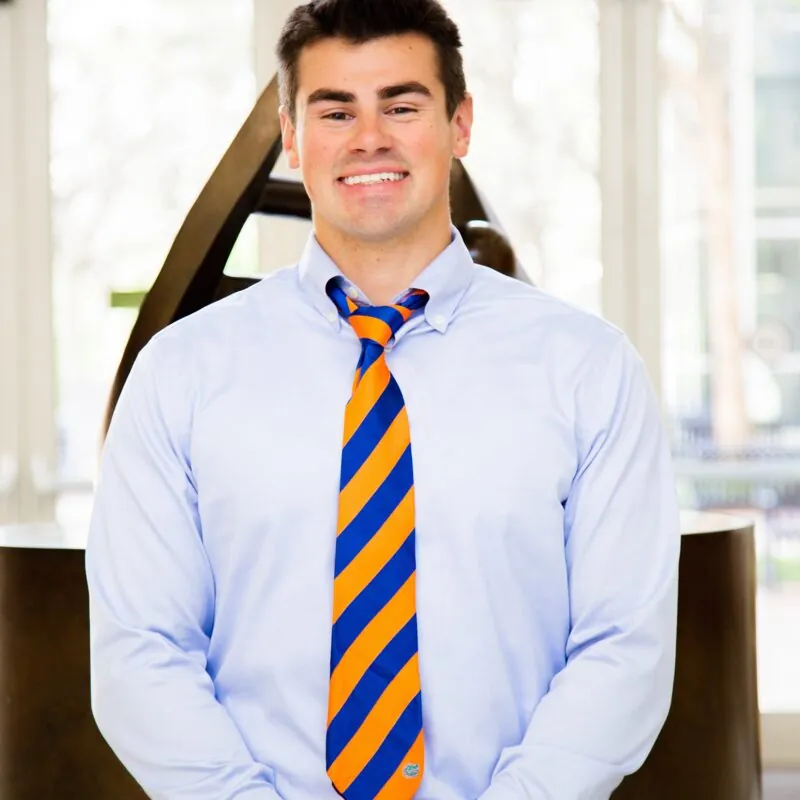
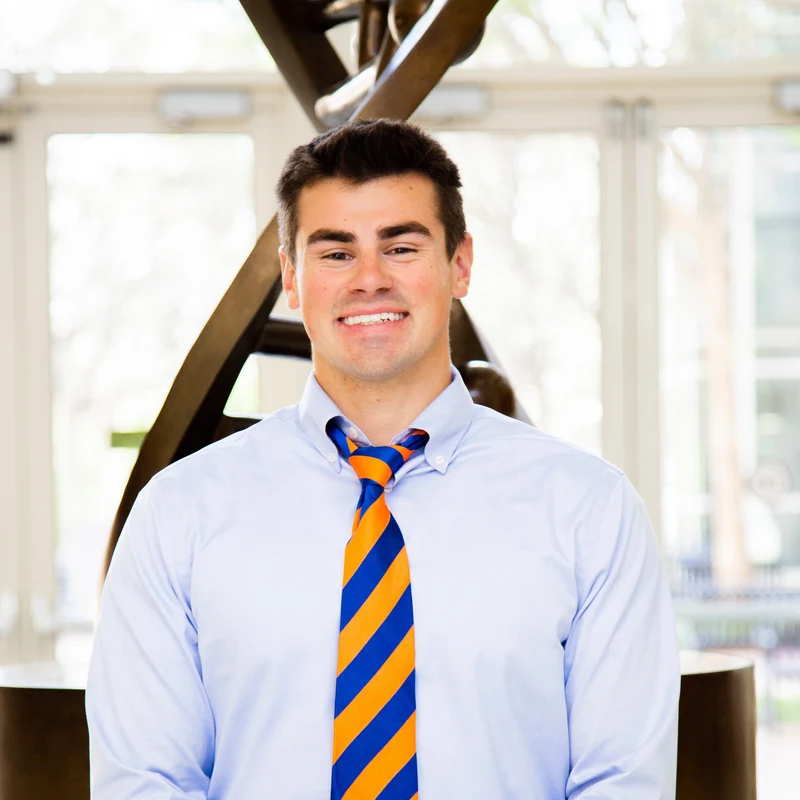
feat(frontend): wire Activator headshots from workshop embeds
Source: FloridaManBioscience_Workshop2.pdf Meet-the-team portraits +
Dropbox high-res founder files (Noah headshot, curtis.png, Garrett
IMG_6374, Michael_Headshot, tyler.png). Center-crop 800px jpg/webp.

Mapped: Sasank, Kayla, Rocky, Min Young Park, Delaney Ding, Hampton.
Still initials: Jeran Fox, Ty Dearing, Giuseppina (no photo on disk).
Photo ID mapping is best-effort from workshop faces — confirm if wrong.

Plan: t-fmbweb-team-assets

diff --git a/frontend/src/lib/team.ts b/frontend/src/lib/team.ts
@@ -116,6 +116,7 @@ export const CONTRIBUTORS: TeamMember[] = [
       "MD/PhD student, University of Florida. Clinical link and U4U intelligence; engine contributor.",
     tier: "contributor",
     nucleateActivator: true,
+    ...photo("sasank"),
     initials: "SD",
   },
   {
@@ -126,6 +127,7 @@ export const CONTRIBUTORS: TeamMember[] = [
       "MD-PhD student, University of Miami. Safety / contraindication layer for genotype-aware peptide protocols.",
     tier: "contributor",
     nucleateActivator: true,
+    ...photo("kayla"),
     initials: "KS",
   },
   {
@@ -136,6 +138,7 @@ export const CONTRIBUTORS: TeamMember[] = [
       "Post-doc, Moffitt Cancer Center. Oncology genetics advisor; VR structural biochemistry project lead.",
     tier: "contributor",
     nucleateActivator: true,
+    ...photo("rocky"),
     initials: "RT",
   },
   {
@@ -146,6 +149,7 @@ export const CONTRIBUTORS: TeamMember[] = [
       "Metabolism biochemistry; mitochondria-focused supplement development (MitoFocus).",
     tier: "contributor",
     nucleateActivator: true,
+    ...photo("min"),
     initials: "MP",
   },
   {
@@ -156,6 +160,7 @@ export const CONTRIBUTORS: TeamMember[] = [
       "Clinical and public-health researcher guiding clinical and translational strategy.",
     tier: "contributor",
     nucleateActivator: true,
+    ...photo("delaney"),
     initials: "DD",
   },
   {
@@ -166,6 +171,7 @@ export const CONTRIBUTORS: TeamMember[] = [
       "Graduate student, MTSU. Engineering lead for platform and infrastructure.",
     tier: "contributor",
     nucleateActivator: true,
+    ...photo("hampton"),
     initials: "HC",
   },
   {
